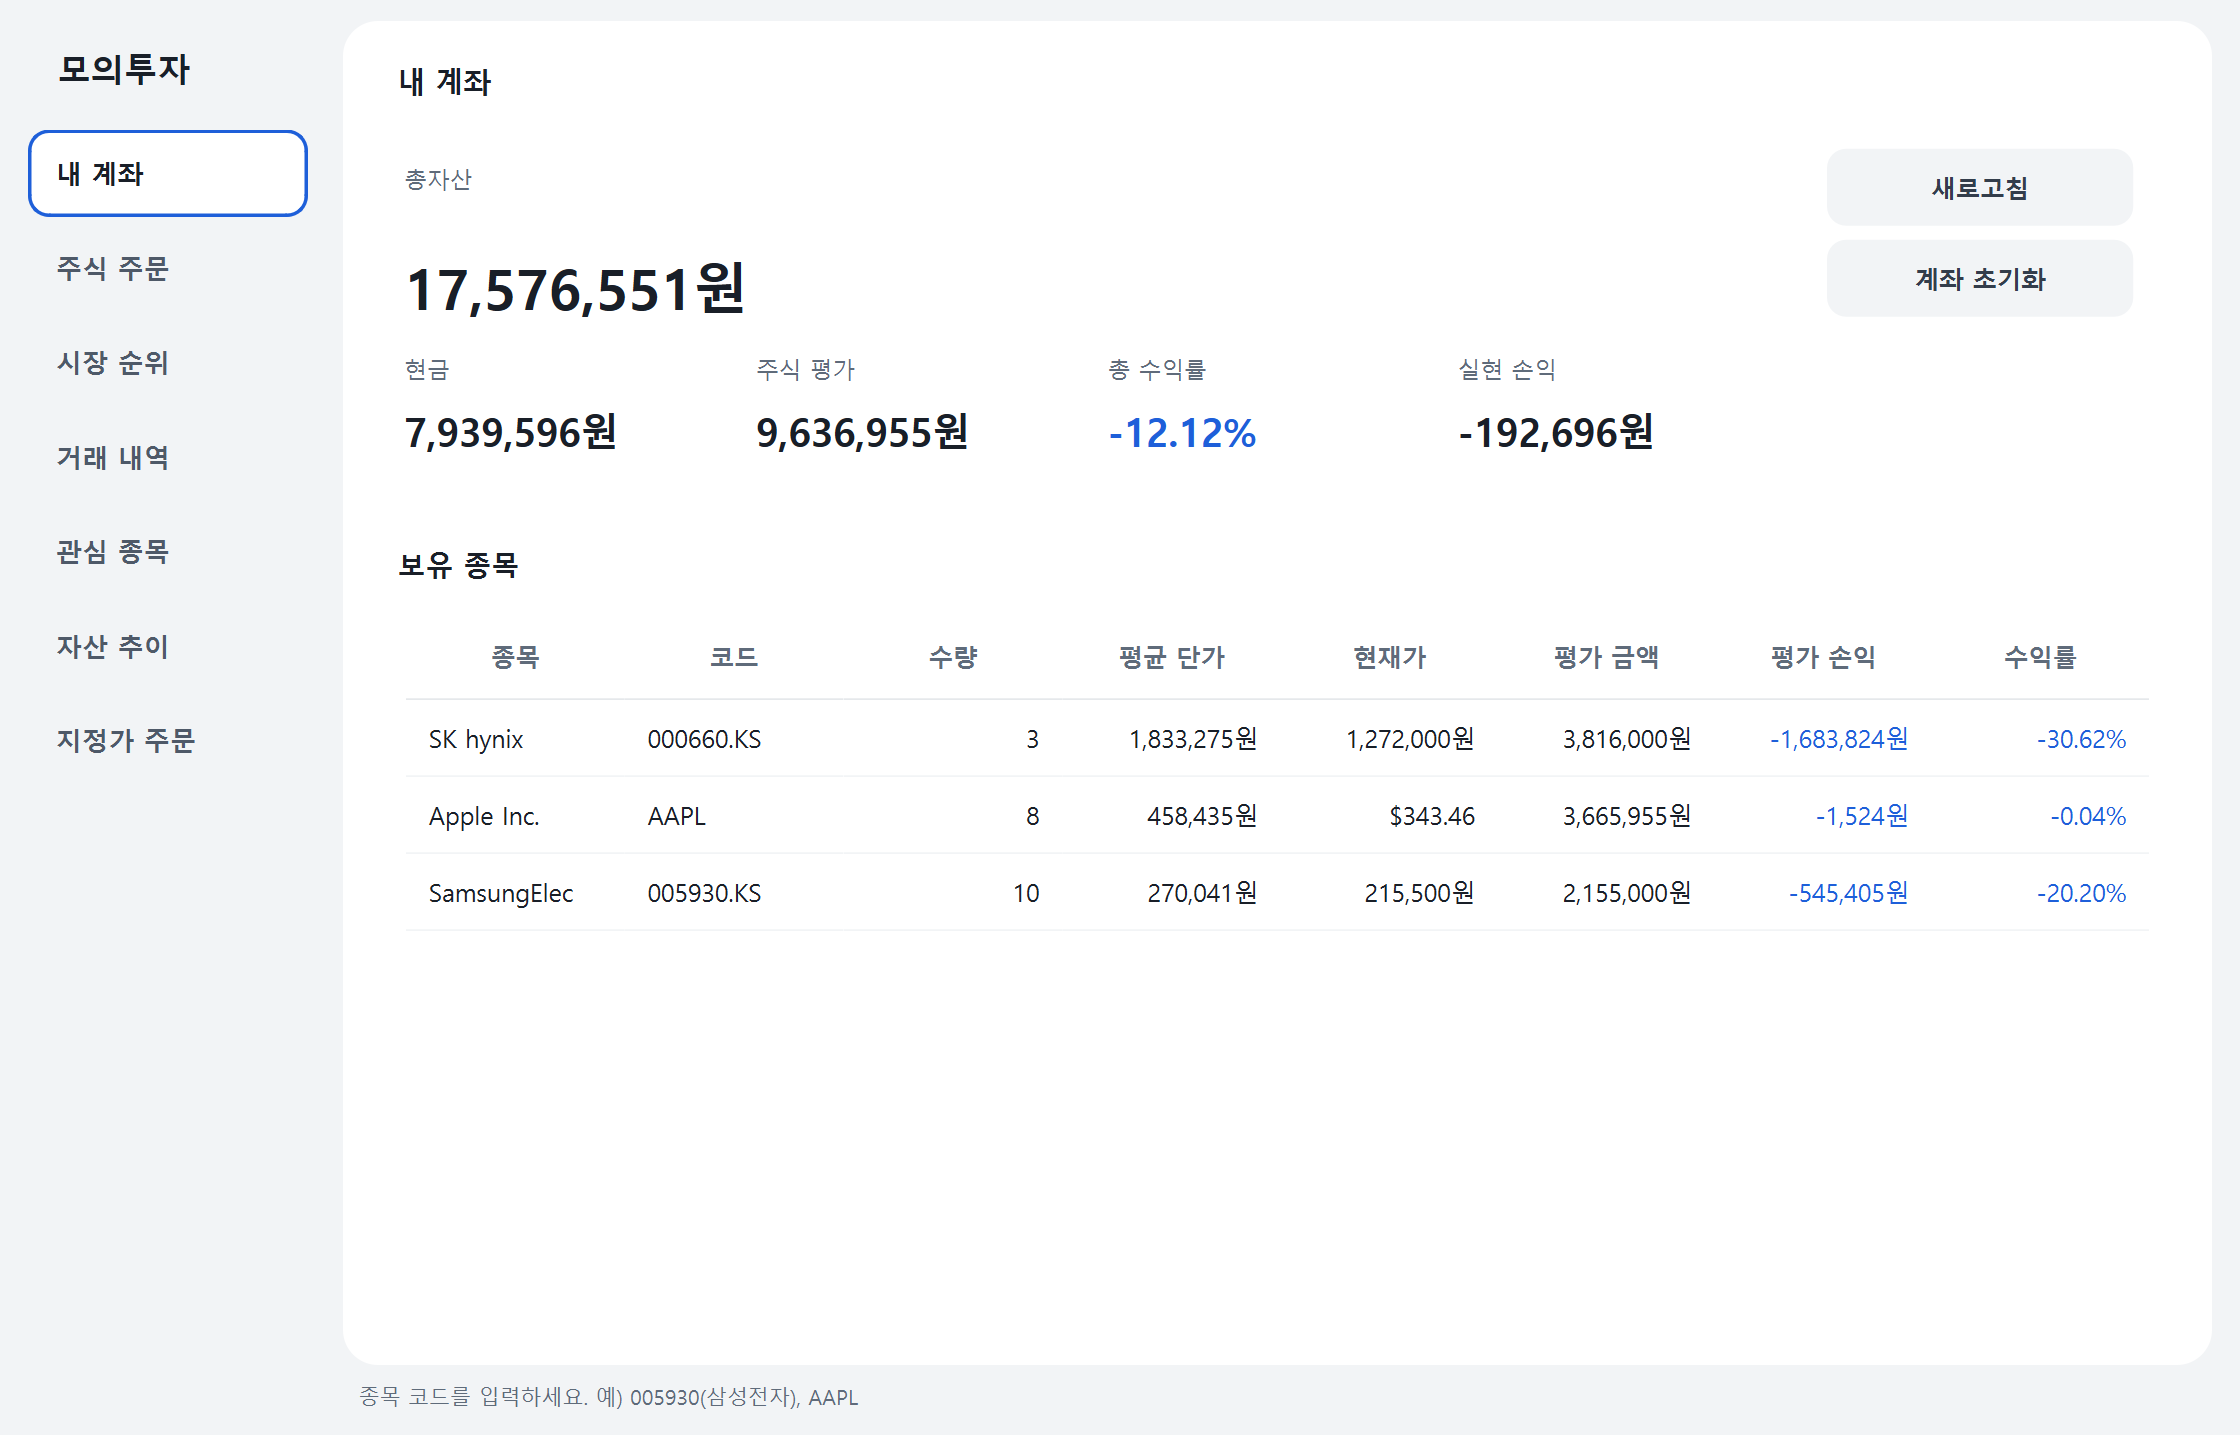
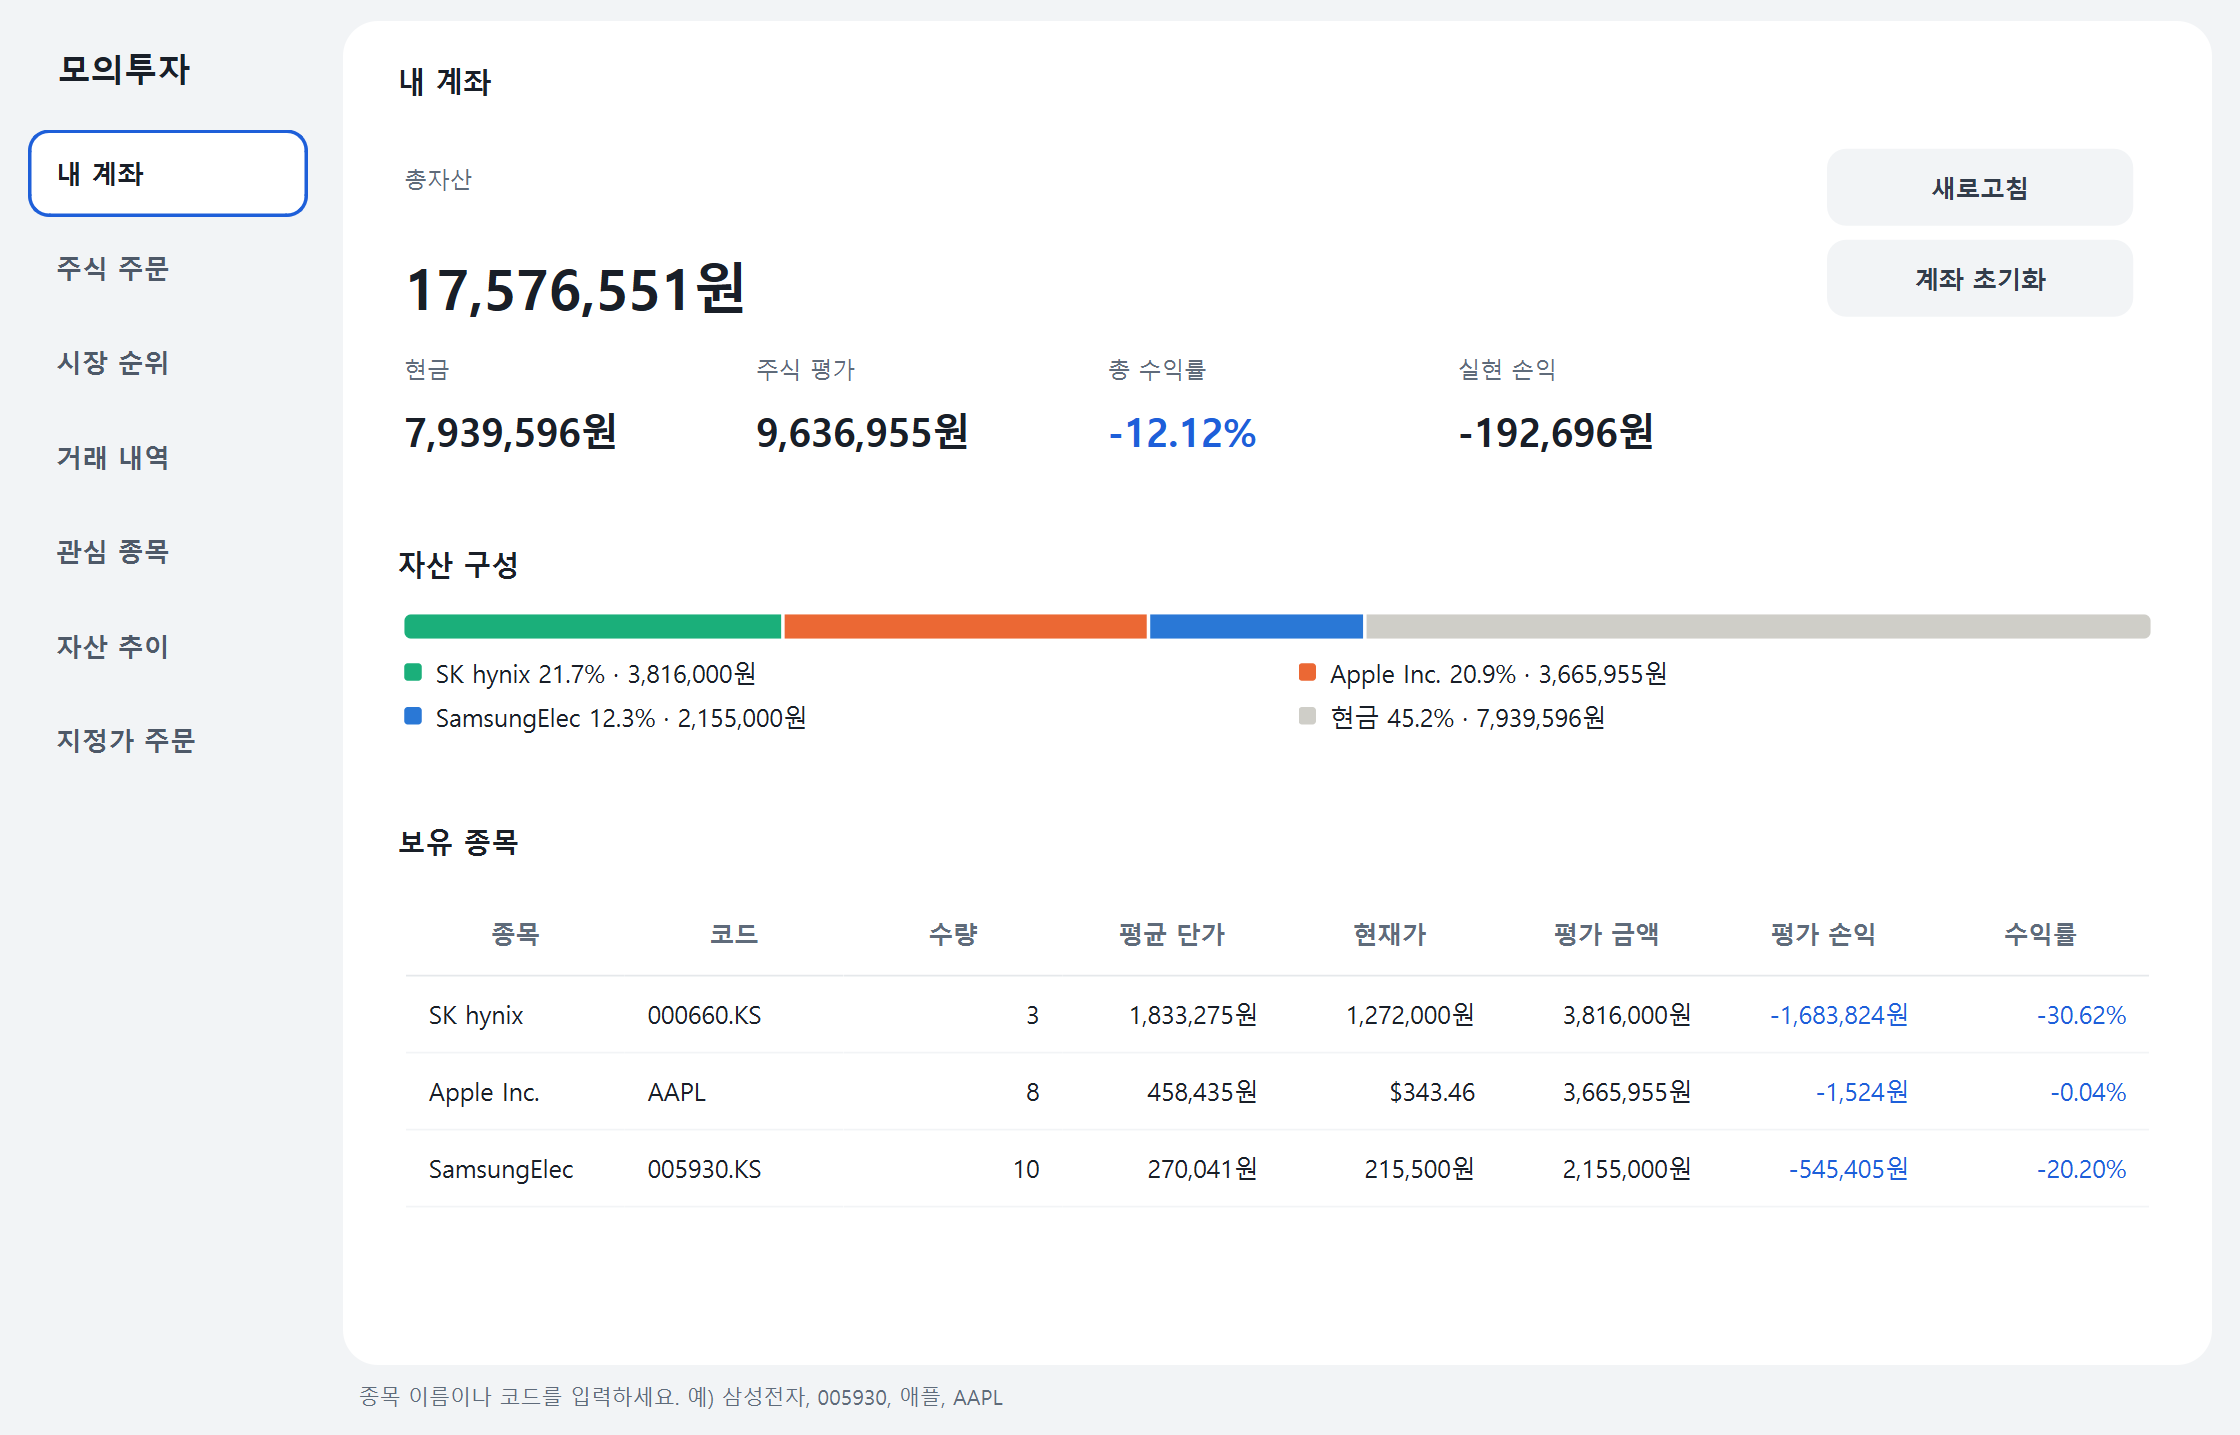
docs: README에 자산 구성, 화면·GIF 다시 만듦

diff --git a/README.md b/README.md
@@ -25,6 +25,7 @@
 - **매수·매도**: 현재가로 체결됩니다. 수수료(0.015%)와 국내 주식 매도 거래세(0.20% 가정)를 반영합니다.
 - **미국 주식 환율 적용**: 원화 계좌에서 미국 주식을 사고팔 때 그 시점의 원/달러 환율로 환산합니다. 환차손익도 손익에 들어갑니다.
 - **계좌 현황**: 총자산, 현금, 주식 평가액, 총 수익률, 실현 손익을 보여줍니다.
+- **자산 구성**: 총자산을 종목별 평가 금액과 현금으로 나눈 비중을 한 줄 막대와 범례(이름·비중·금액)로 보여 줍니다. 상위 5종목 밖은 "기타"로 묶고, 종목 색은 값이 바뀌어도 그대로입니다.
 - **보유 종목 · 거래 내역**: 이동평균 매입가와 평가 손익, 전체 체결 기록을 보여줍니다. 거래 내역은 엑셀에서 바로 열리는 CSV로 내보낼 수 있습니다(수식 주입 방지 처리).
 - **3개월 종가 차트**: 조회한 종목의 최근 흐름을 보여줍니다.
 - **시장 순위**: 한국·미국 주요 대형주(한국 38개, 미국 32개) 안에서 오늘 급상승·급하락·거래량 순위를 봅니다. 무료 시세로는 시장 전체 순위를 받을 수 없어 목록 안의 순위이며, 화면에도 그렇게 표시합니다. 5분에 한 번만 새로 받습니다.
@@ -76,6 +77,7 @@ mock_trading/
 ├── watchlist.py     # 관심 종목
 ├── market_rank.py   # 시장 순위(주요 종목 목록 + 순위 계산, 5분 캐시)
 ├── symbols.py       # 종목 이름 검색(이름·초성·한글 별칭 → 코드)
+├── allocation.py    # 자산 구성 비중(상위 종목·기타·현금)
 ├── history.py       # 자산 추이(장부 + 과거 종가로 날짜별 총자산 재계산, 종가 캐시)
 ├── broker.py        # 주문 검증과 체결, 수수료, 계좌 평가
 ├── export.py        # 거래 내역 CSV 내보내기(수식 실행 방지)
